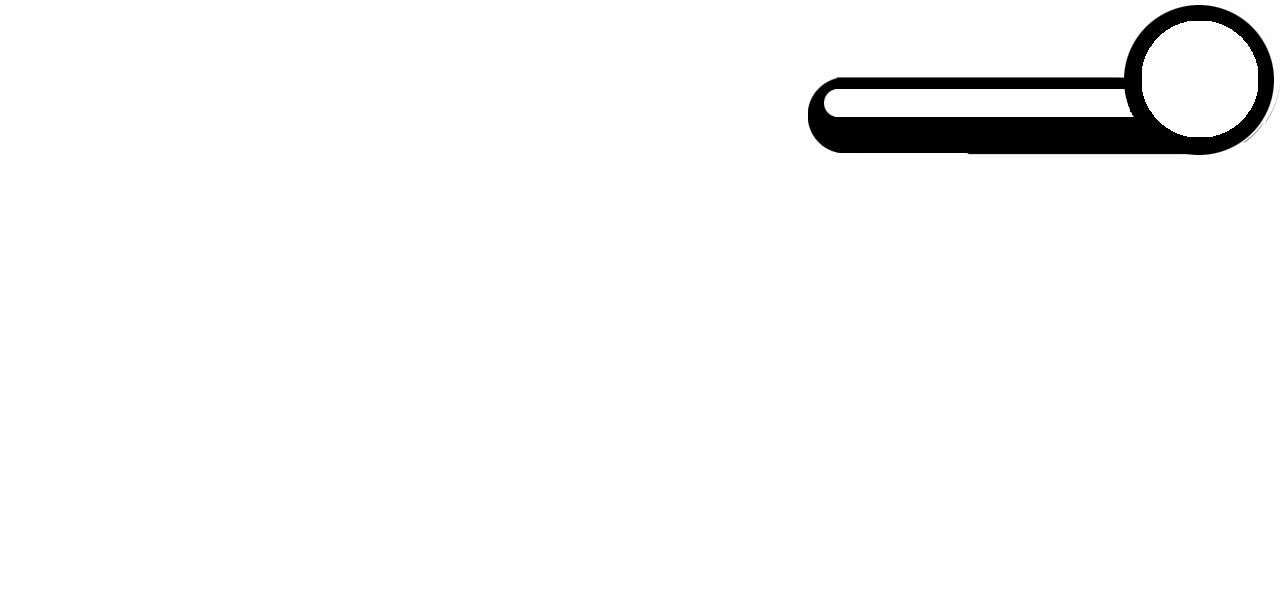
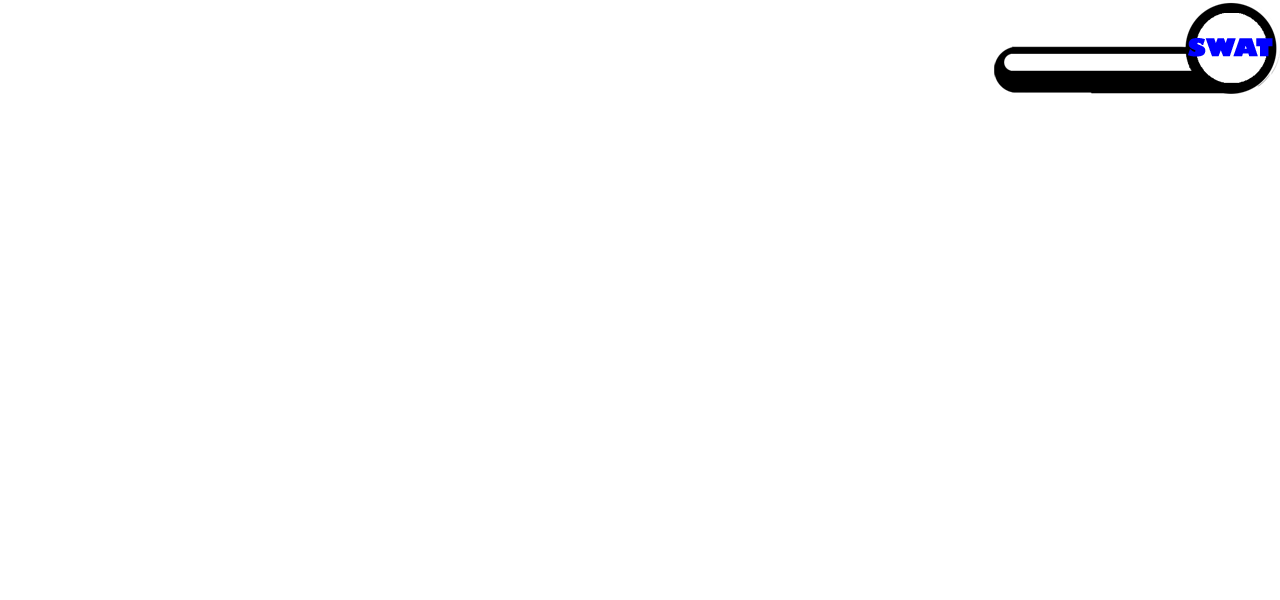
kermitt

Changed region(s): [[0.625, 0.0, 1.0, 0.27]]

diff --git a/Top-Down-Survival/Top-Down-Survival/AfterLife/src/Engine/GameScreen.java b/Top-Down-Survival/Top-Down-Survival/AfterLife/src/Engine/GameScreen.java
@@ -86,7 +86,7 @@ public class GameScreen extends JFrame {
                 new ImageIcon("Resources/Screen Utilities/crosshair.png").getImage(), new Point(17 / 2, 17 / 2), "custom cursor"));
         this.pack();
         try {
-        	gui = (ImageIO.read(new File("Resources/Screen Utilities/sgui.png")));
+        	gui = (ImageIO.read(new File("Resources/Screen Utilities/gui.png")));
         	} catch (IOException e) {
         }
 
@@ -474,6 +474,8 @@ public class GameScreen extends JFrame {
             g.setColor(Color.BLACK);
             g.draw(healthBar);
 
+            
+            g.drawImage(gui,0,0,null);
             g.setFont(new Font("Century Gothic", Font.PLAIN, 14));
             g.setColor(Color.WHITE);
             g.drawString("Health: " + player.getHealth(), GameScreen.WIDTH - 150, 25);//----------------------------
@@ -614,13 +616,13 @@ public class GameScreen extends JFrame {
                 player_run.Play();
             }
 
-            if (key.getKeyCode() == KeyEvent.VK_S) {
-                player.setDown(true);
+            if (key.getKeyCode() == KeyEvent.VK_A) {
+                player.setLeft(true);
                 player_run.Play();
             }
 
-            if (key.getKeyCode() == KeyEvent.VK_A) {
-                player.setLeft(true);
+            if (key.getKeyCode() == KeyEvent.VK_S) {
+                player.setDown(true);
                 player_run.Play();
             }
 
